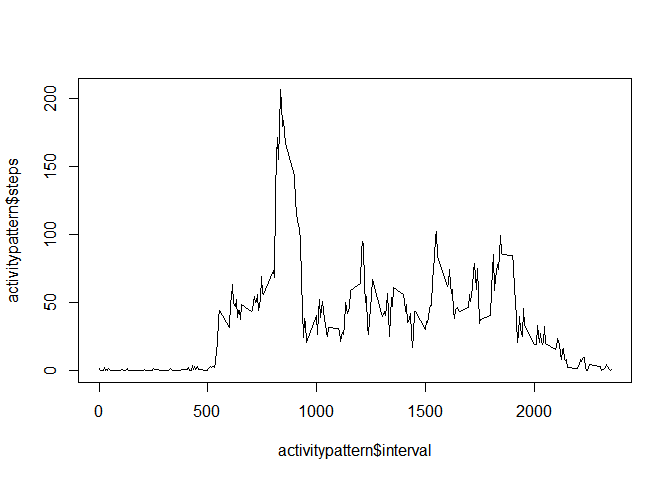
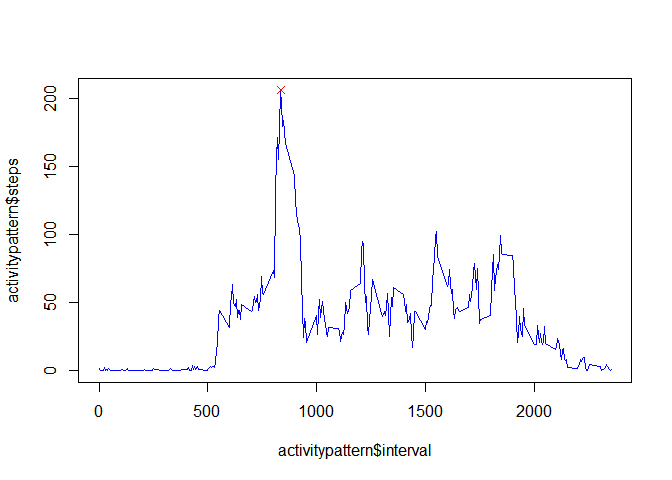
finished activity pattern question

diff --git a/PA1_template.html b/PA1_template.html
@@ -96,11 +96,18 @@ hist(dailysteps$steps, breaks=10,
 </div>
 <div id="what-is-the-average-daily-activity-pattern" class="section level2">
 <h2>What is the average daily activity pattern?</h2>
+<p>Which interval is the most active, on average?</p>
 <pre class="r"><code>activitypattern &lt;- activity %&gt;%
     group_by(interval) %&gt;%
     summarize(steps=mean(steps, na.rm=TRUE))
-plot(activitypattern$interval,activitypattern$steps, type=&quot;l&quot;)</code></pre>
[1 lines of base64/hex data omitted]
+plot(activitypattern$interval,activitypattern$steps, type=&quot;l&quot;, col=&quot;blue&quot;)
+mostactive.idx &lt;- which.max(activitypattern$steps)
+activitypattern$interval[mostactive.idx]</code></pre>
+<pre><code>## [1] 835</code></pre>
+<pre class="r"><code>points(activitypattern$interval[mostactive.idx], 
+       activitypattern$steps[mostactive.idx], 
+       pch=4, col=&quot;red&quot;)</code></pre>
[1 lines of base64/hex data omitted]
 </div>
 <div id="imputing-missing-values" class="section level2">
 <h2>Imputing missing values</h2>

diff --git a/PA1_template.md b/PA1_template.md
@@ -69,12 +69,25 @@ median(dailysteps$steps)
 ```
 
 ## What is the average daily activity pattern?
+Which interval is the most active, on average?
 
 ```r
 activitypattern <- activity %>%
     group_by(interval) %>%
     summarize(steps=mean(steps, na.rm=TRUE))
-plot(activitypattern$interval,activitypattern$steps, type="l")
+plot(activitypattern$interval,activitypattern$steps, type="l", col="blue")
+mostactive.idx <- which.max(activitypattern$steps)
+activitypattern$interval[mostactive.idx]
+```
+
+```
+## [1] 835
+```
+
+```r
+points(activitypattern$interval[mostactive.idx], 
+       activitypattern$steps[mostactive.idx], 
+       pch=4, col="red")
 ```
 
 ![](PA1_template_files/figure-html/activitypattern-1.png) 
